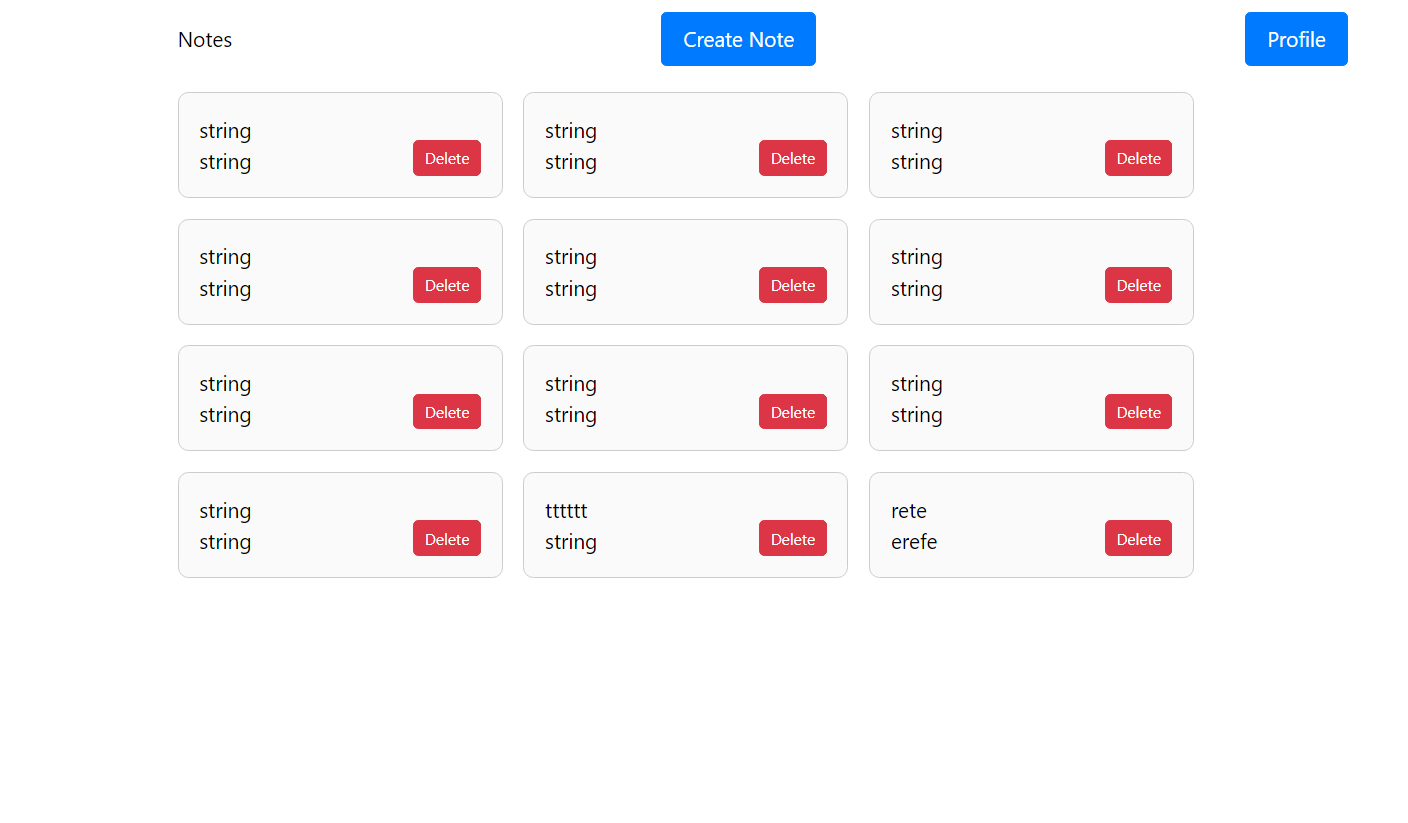
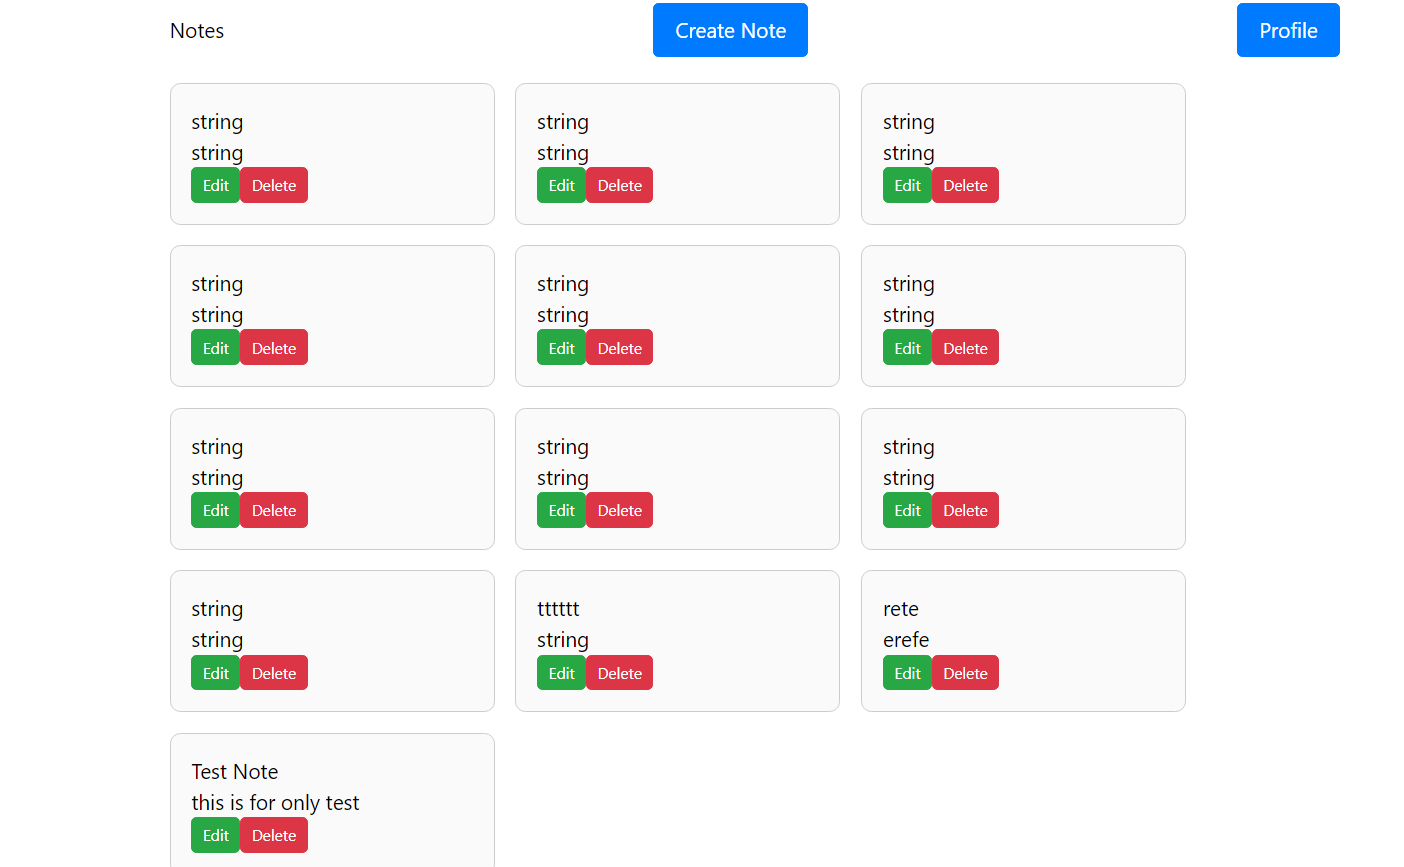
k

diff --git a/src/page/NotePage.tsx b/src/page/NotePage.tsx
@@ -164,41 +164,37 @@ export const NotePage = () => {
                         <h3>{note.note_title}</h3>
                         <p>{note.note_content || "No content"}</p>
 
-                        <button
-                            onClick={() => openEditForm(note)}
-                            style={{
-                                position: "absolute",
-                                bottom: 16,
-                                right: 16,
-                                padding: "4px 8px",
-                                cursor: "pointer",
-                                borderRadius: 4,
-                                border: "1px solid #28a745",
-                                backgroundColor: "#28a745",
-                                color: "white",
-                                fontSize: 12,
-                            }}
-                        >
-                            Edit
-                        </button>
+                        <div className="d-flex gap-2" style={{ justifyContent: "flex-end" }}>
+                            <button
+                                onClick={() => openEditForm(note)}
+                                style={{
+                                    padding: "4px 8px",
+                                    cursor: "pointer",
+                                    borderRadius: 4,
+                                    border: "1px solid #28a745",
+                                    backgroundColor: "#28a745",
+                                    color: "white",
+                                    fontSize: 12,
+                                }}
+                            >
+                                Edit
+                            </button>
 
-                        <button
-                            onClick={() => handleDelete(note.note_id)}
-                            style={{
-                                position: "absolute",
-                                bottom: 16,
-                                right: 16,
-                                padding: "4px 8px",
-                                cursor: "pointer",
-                                borderRadius: 4,
-                                border: "1px solid #dc3545",
-                                backgroundColor: "#dc3545",
-                                color: "white",
-                                fontSize: 12,
-                            }}
-                        >
-                            Delete
-                        </button>
+                            <button
+                                onClick={() => handleDelete(note.note_id)}
+                                style={{
+                                    padding: "4px 8px",
+                                    cursor: "pointer",
+                                    borderRadius: 4,
+                                    border: "1px solid #dc3545",
+                                    backgroundColor: "#dc3545",
+                                    color: "white",
+                                    fontSize: 12,
+                                }}
+                            >
+                                Delete
+                            </button>
+                        </div>
                     </div>
                 ))}
             </div>
